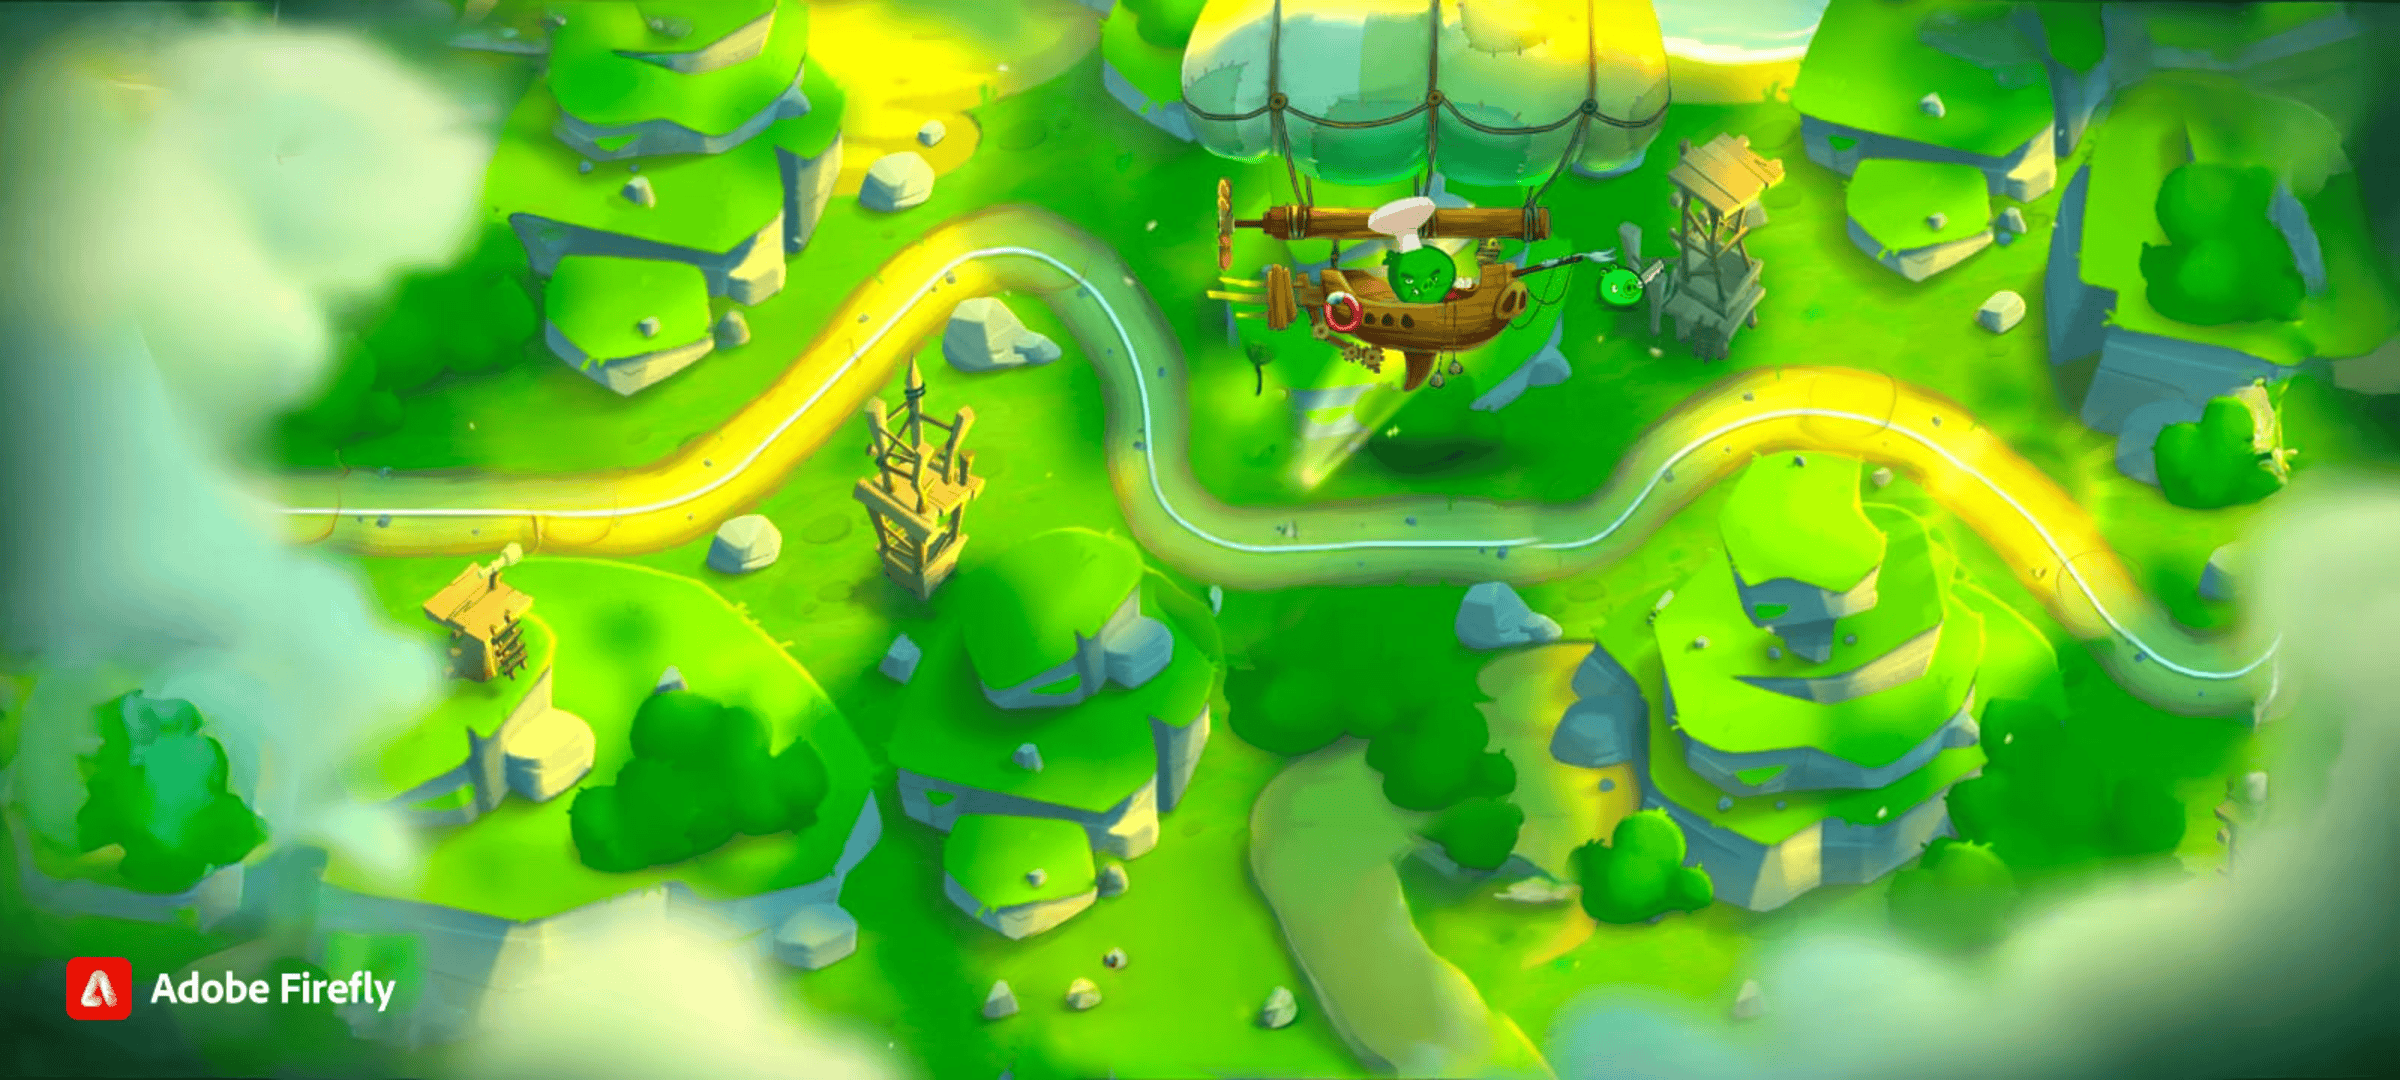
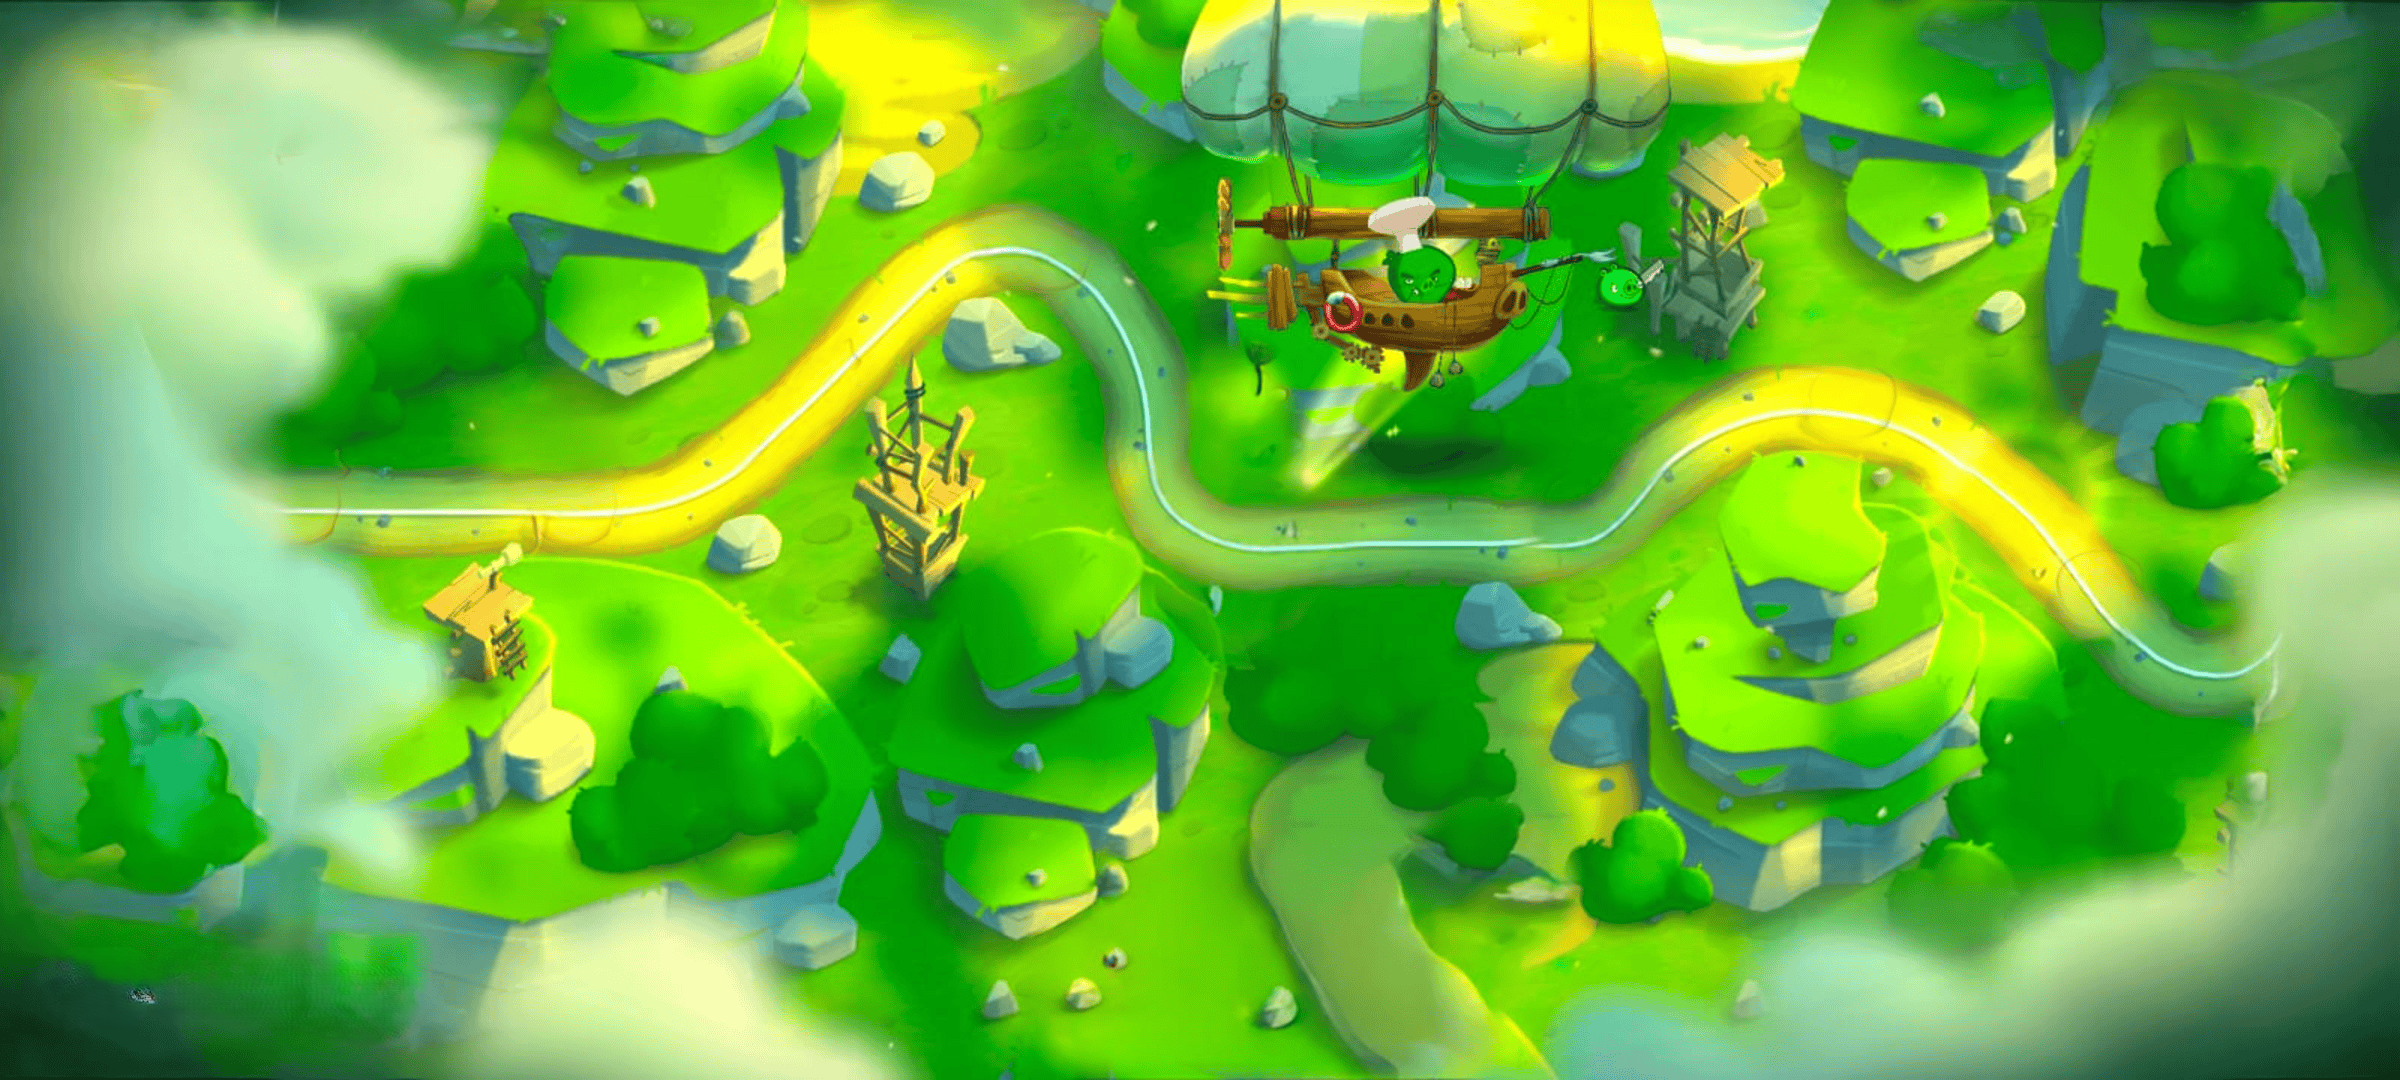
changed background and tried to add basic button

Changed region(s): [[0.0, 0.8556, 0.1875, 0.9778]]

diff --git a/core/src/main/java/com/ap/angrybirds/LevelPage.java b/core/src/main/java/com/ap/angrybirds/LevelPage.java
@@ -30,7 +30,7 @@ public class LevelPage extends ScreenAdapter {
     @Override
     public void show(){
         batch = new SpriteBatch();
-        background = new Texture(Gdx.files.internal("Levelpage.png"));
+        background = new Texture(Gdx.files.internal("LevelpageBackground.png"));
         level1 = new Texture(Gdx.files.internal("Level1.png"));
         level2 = new Texture(Gdx.files.internal("Level2.png"));
         level3 = new Texture(Gdx.files.internal("Level3.png"));
